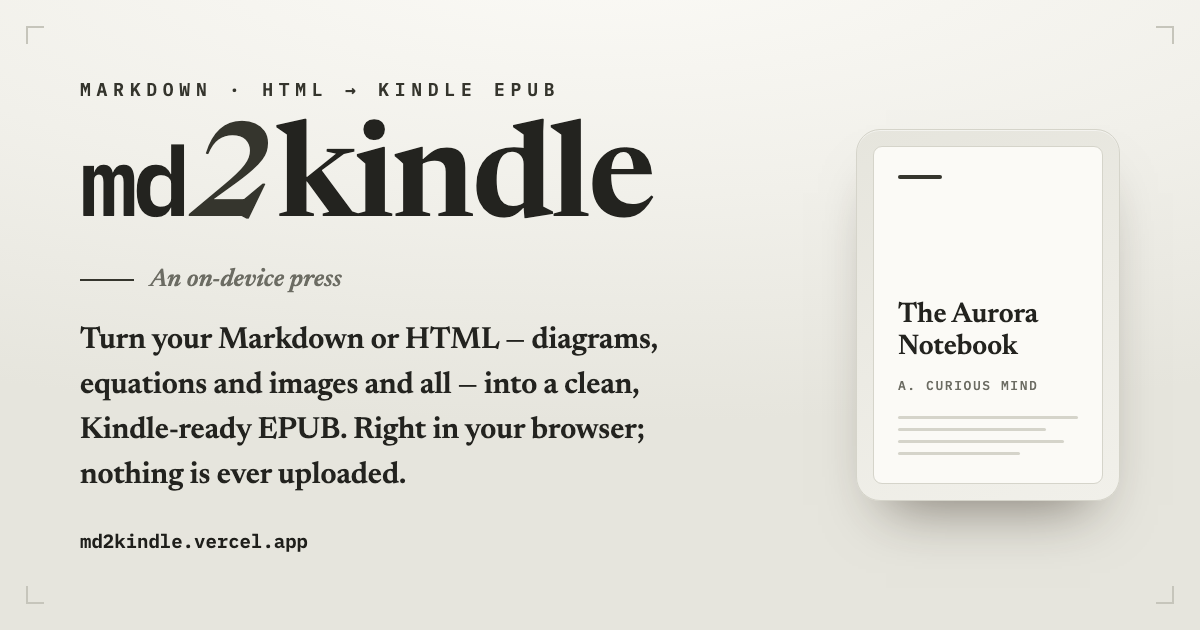
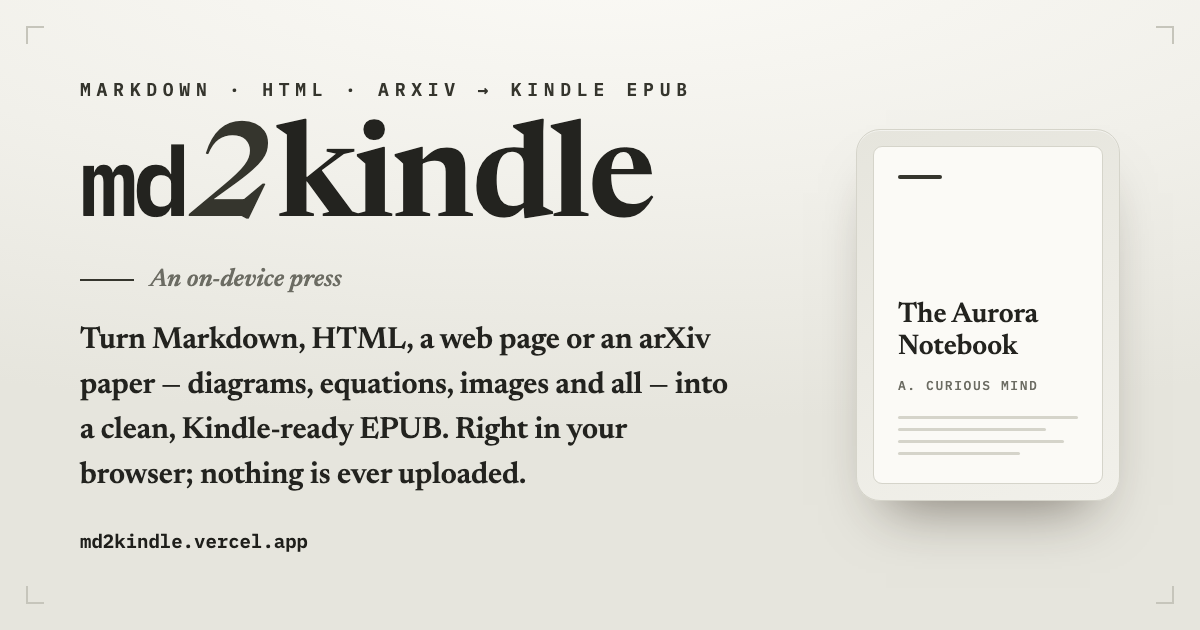
Slight improvements

Changed region(s): [[0.0617, 0.5127, 0.6167, 0.6333], [0.0617, 0.6635, 0.555, 0.7841], [0.3083, 0.1206, 0.5858, 0.1508]]

diff --git a/src/App.tsx b/src/App.tsx
@@ -35,13 +35,20 @@ const FORMATS: { id: SourceKind; label: string }[] = [
   { id: 'html', label: 'HTML' },
 ];
 
+// Ordered by what someone actually arrives holding. For HTML that's a link
+// (nobody has raw markup on their clipboard); for Markdown it's a file. Paste
+// sits last in both: it needs you to have copied something already, so it reads
+// as the escape hatch rather than the starting point.
 const MODES: { id: InputMode; label: string; hint: string }[] = [
-  { id: 'paste', label: 'Paste', hint: 'Paste your text straight in — best for quick documents.' },
-  { id: 'url', label: 'URL', hint: 'Fetch a web page by link, images and all.' },
+  { id: 'url', label: 'URL', hint: 'Fetch a web page or an arXiv paper by link, images and all.' },
   { id: 'file', label: 'Single file', hint: 'Choose one document file from your device.' },
   { id: 'files', label: 'File + images', hint: 'Pick the document with its image files (matched by name).' },
   { id: 'folder', label: 'Folder', hint: 'Drop a whole folder; relative image paths resolve automatically.' },
+  { id: 'paste', label: 'Paste', hint: 'Paste your text straight in — best for quick documents.' },
 ];
+
+/** Where each format starts: the leftmost mode is also the preselected one. */
+const DEFAULT_MODE: Record<SourceKind, InputMode> = { markdown: 'file', html: 'url' };
 
 const SPLIT_LABELS: Record<ChapterSplit, string> = {
   auto: 'Automatic (recommended)',
@@ -84,7 +91,7 @@ export default function App() {
   );
   const [format, setFormat] = useState<SourceKind>('markdown');
   const [readability, setReadability] = useState(true);
-  const [mode, setMode] = useState<InputMode>('paste');
+  const [mode, setMode] = useState<InputMode>(DEFAULT_MODE.markdown);
   const [pasteText, setPasteText] = useState('');
   const [docs, setDocs] = useState<SrcDoc[]>([]);
   const [docIndex, setDocIndex] = useState(0);
@@ -280,9 +287,11 @@ export default function App() {
   const dirProps = mode === 'folder' ? ({ webkitdirectory: '', directory: '' } as any) : {};
   const switchFormat = (id: SourceKind) => {
     setFormat(id);
-    // URL fetching is an HTML-only feature — don't strand the user on the URL
-    // panel (or let a raw .md link silently go through) when they pick Markdown.
-    if (id === 'markdown' && mode === 'url') setMode('paste');
+    // Switching format is already a full reset, so return to that format's
+    // natural starting point: a link for HTML, a file for Markdown. This also
+    // keeps a Markdown source off the HTML-only URL panel, where a raw .md link
+    // would silently give confusing output.
+    setMode(DEFAULT_MODE[id]);
     setDocs([]);
     setImages([]);
     setFetchedContent('');
@@ -335,7 +344,7 @@ export default function App() {
       </div>
 
       <header className="masthead">
-        <p className="masthead-kicker">Markdown, bound for the page</p>
+        <p className="masthead-kicker">What you meant to read, bound for the page</p>
         <div className="wordmark">
           <span className="wm-md">md</span>
           <span className="wm-2">2</span>
@@ -345,8 +354,9 @@ export default function App() {
           <span>An on-device press</span>
         </div>
         <p className="masthead-sub">
-          Turn your Markdown or HTML — diagrams, equations, images and all — into a clean,
-          Kindle-ready EPUB. Hyphenation is switched off for you, so the reading flow stays smooth.
+          Turn Markdown, HTML, a web page or an arXiv paper — diagrams, equations, images and all —
+          into a clean, Kindle-ready EPUB. Chapters, a table of contents and reader-friendly type
+          are set for you.
         </p>
         <div className="seal">
           <span className="dot" />
@@ -532,16 +542,19 @@ export default function App() {
           )}
 
           <div className="editor-foot">
-            {mode === 'paste' && (
-              <button
-                className="ghost-btn"
-                onClick={() => setPasteText(format === 'html' ? SAMPLE_HTML : SAMPLE_MD)}
-              >
-                {format === 'html'
-                  ? '✦ Load a sample blog page (HTML)'
-                  : '✦ Load a sample (math, a diagram & a table)'}
-              </button>
-            )}
+            {/* Reachable from every mode: the landing mode now wants a file or a
+                link, so this stays the one-click way to see what the tool does. */}
+            <button
+              className="ghost-btn"
+              onClick={() => {
+                setPasteText(format === 'html' ? SAMPLE_HTML : SAMPLE_MD);
+                setMode('paste');
+              }}
+            >
+              {format === 'html'
+                ? '✦ Load a sample blog page (HTML)'
+                : '✦ Load a sample (math, a diagram & a table)'}
+            </button>
             {words > 0 && (
               <span className="editor-meta">
                 ≈ {words.toLocaleString()} words · ~{pages} Kindle pages · {minutes} min read

diff --git a/index.html b/index.html
@@ -7,7 +7,7 @@
     <meta name="theme-color" content="#f1f0ea" />
     <meta
       name="description"
-      content="An on-device press. Turn Markdown or HTML — diagrams, equations, images and all — into a clean, Kindle-ready EPUB. Nothing is ever uploaded."
+      content="An on-device press. Turn Markdown, HTML, a web page or an arXiv paper — diagrams, equations, images and all — into a clean, Kindle-ready EPUB. Nothing is ever uploaded."
     />
     <title>md2kindle — an on-device press for Kindle EPUBs</title>
 
@@ -17,18 +17,21 @@
     <meta property="og:title" content="md2kindle — an on-device press for Kindle EPUBs" />
     <meta
       property="og:description"
-      content="Turn Markdown or HTML — diagrams, equations and images included — into a clean, Kindle-ready EPUB. Right in your browser; nothing is uploaded."
+      content="Turn Markdown, HTML, a web page or an arXiv paper — diagrams, equations and images included — into a clean, Kindle-ready EPUB. Right in your browser; nothing is uploaded."
     />
     <meta property="og:url" content="https://md2kindle.vercel.app/" />
     <meta property="og:image" content="https://md2kindle.vercel.app/og-image.png" />
     <meta property="og:image:width" content="1200" />
     <meta property="og:image:height" content="630" />
-    <meta property="og:image:alt" content="md2kindle — Markdown or HTML to a Kindle-ready EPUB" />
+    <meta
+      property="og:image:alt"
+      content="md2kindle — Markdown, HTML, web pages and arXiv papers to a Kindle-ready EPUB"
+    />
     <meta name="twitter:card" content="summary_large_image" />
     <meta name="twitter:title" content="md2kindle — an on-device press for Kindle EPUBs" />
     <meta
       name="twitter:description"
-      content="Turn Markdown or HTML into a clean, Kindle-ready EPUB, entirely in your browser."
+      content="Turn Markdown, HTML, a web page or an arXiv paper into a clean, Kindle-ready EPUB, entirely in your browser."
     />
     <meta name="twitter:image" content="https://md2kindle.vercel.app/og-image.png" />
     <link rel="preconnect" href="https://fonts.googleapis.com" />
